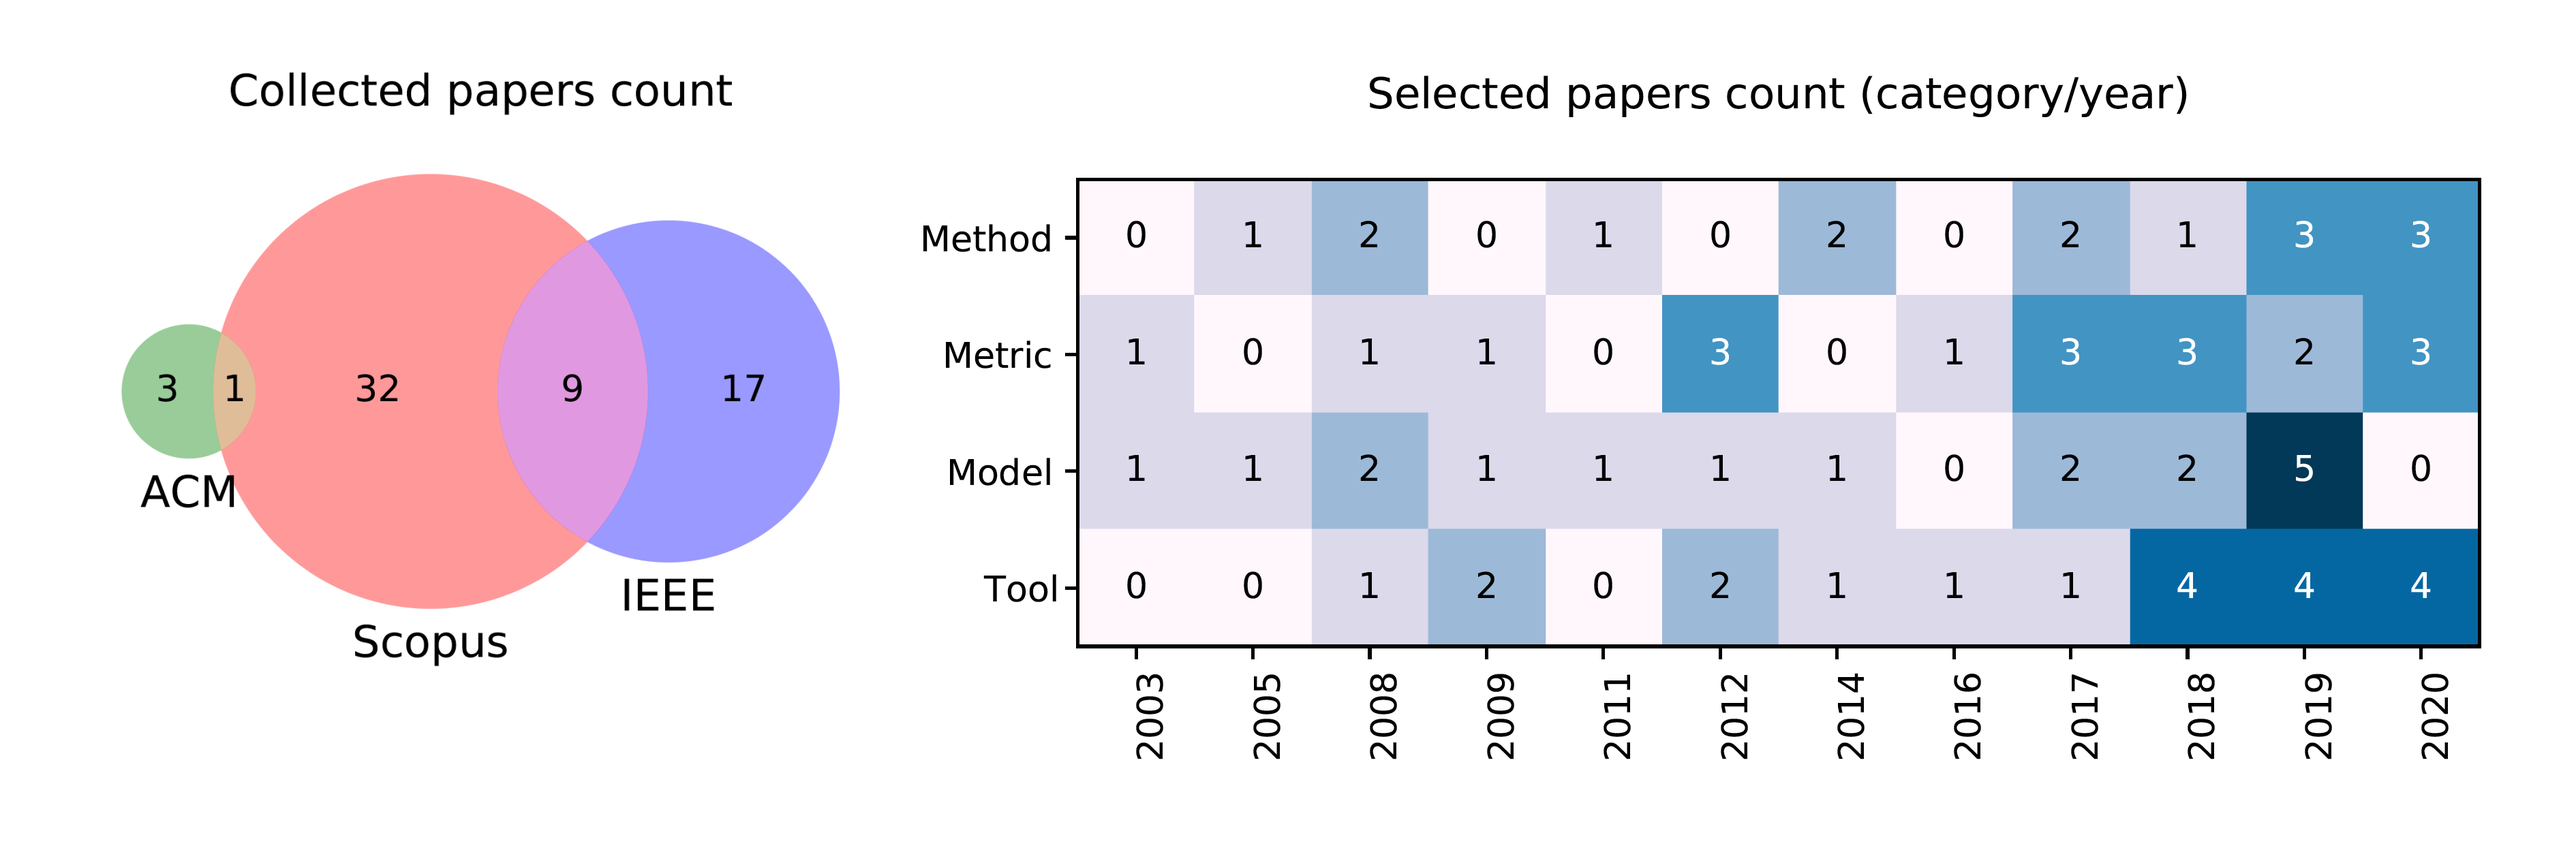
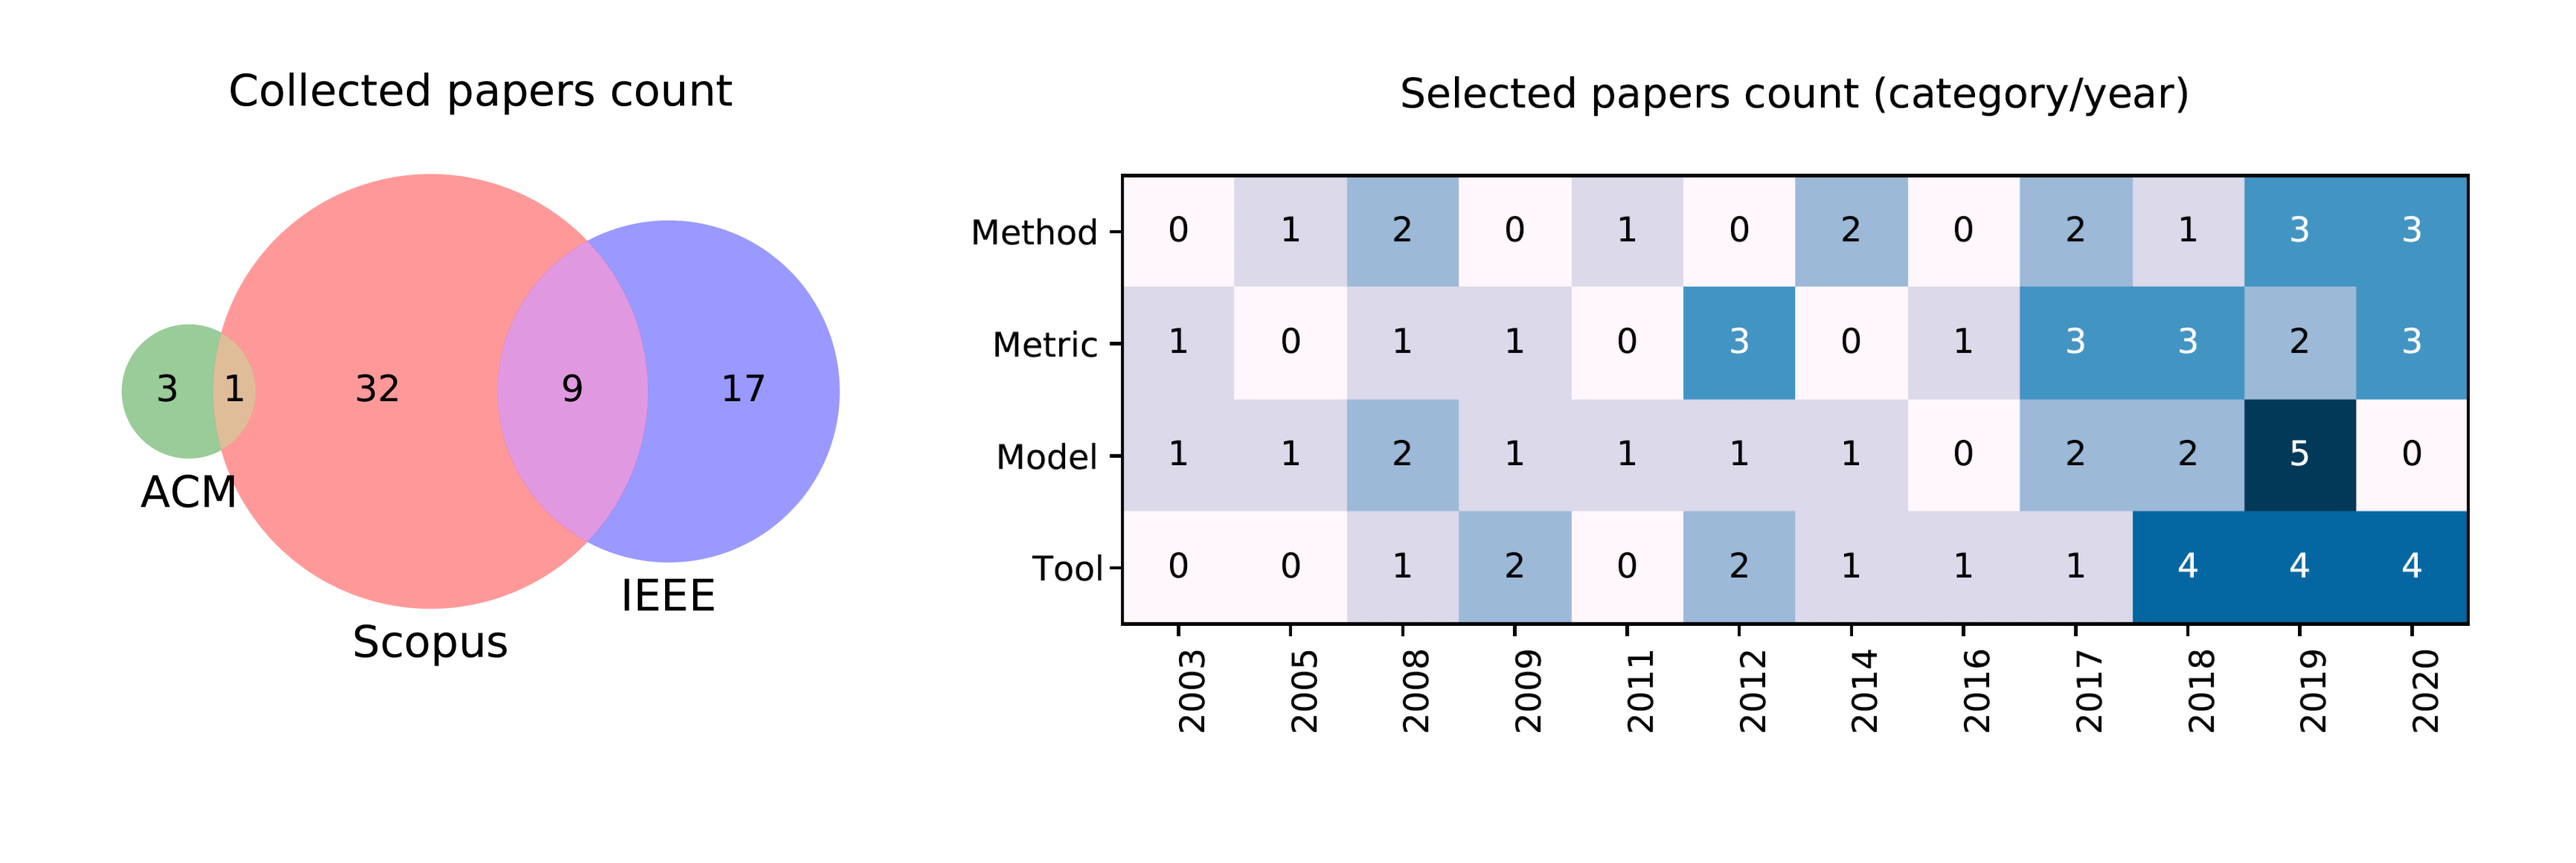
doc: update charts image

diff --git a/samples/charts.py b/samples/charts.py
@@ -138,7 +138,7 @@ def show_categories_headmap(papers, category_facet):
             text = ax.text(j, i, value_matrix[i, j],
                         ha="center", va="center", color=textcolors[int(value_matrix[i, j] > threshold)])
 
-    ax.set_title("Selected papers count (category/year)", pad=20)
+    ax.set_title(f"Selected papers count ({category_facet}/year)", pad=20)
     fig.tight_layout()
 
     plt.show()
